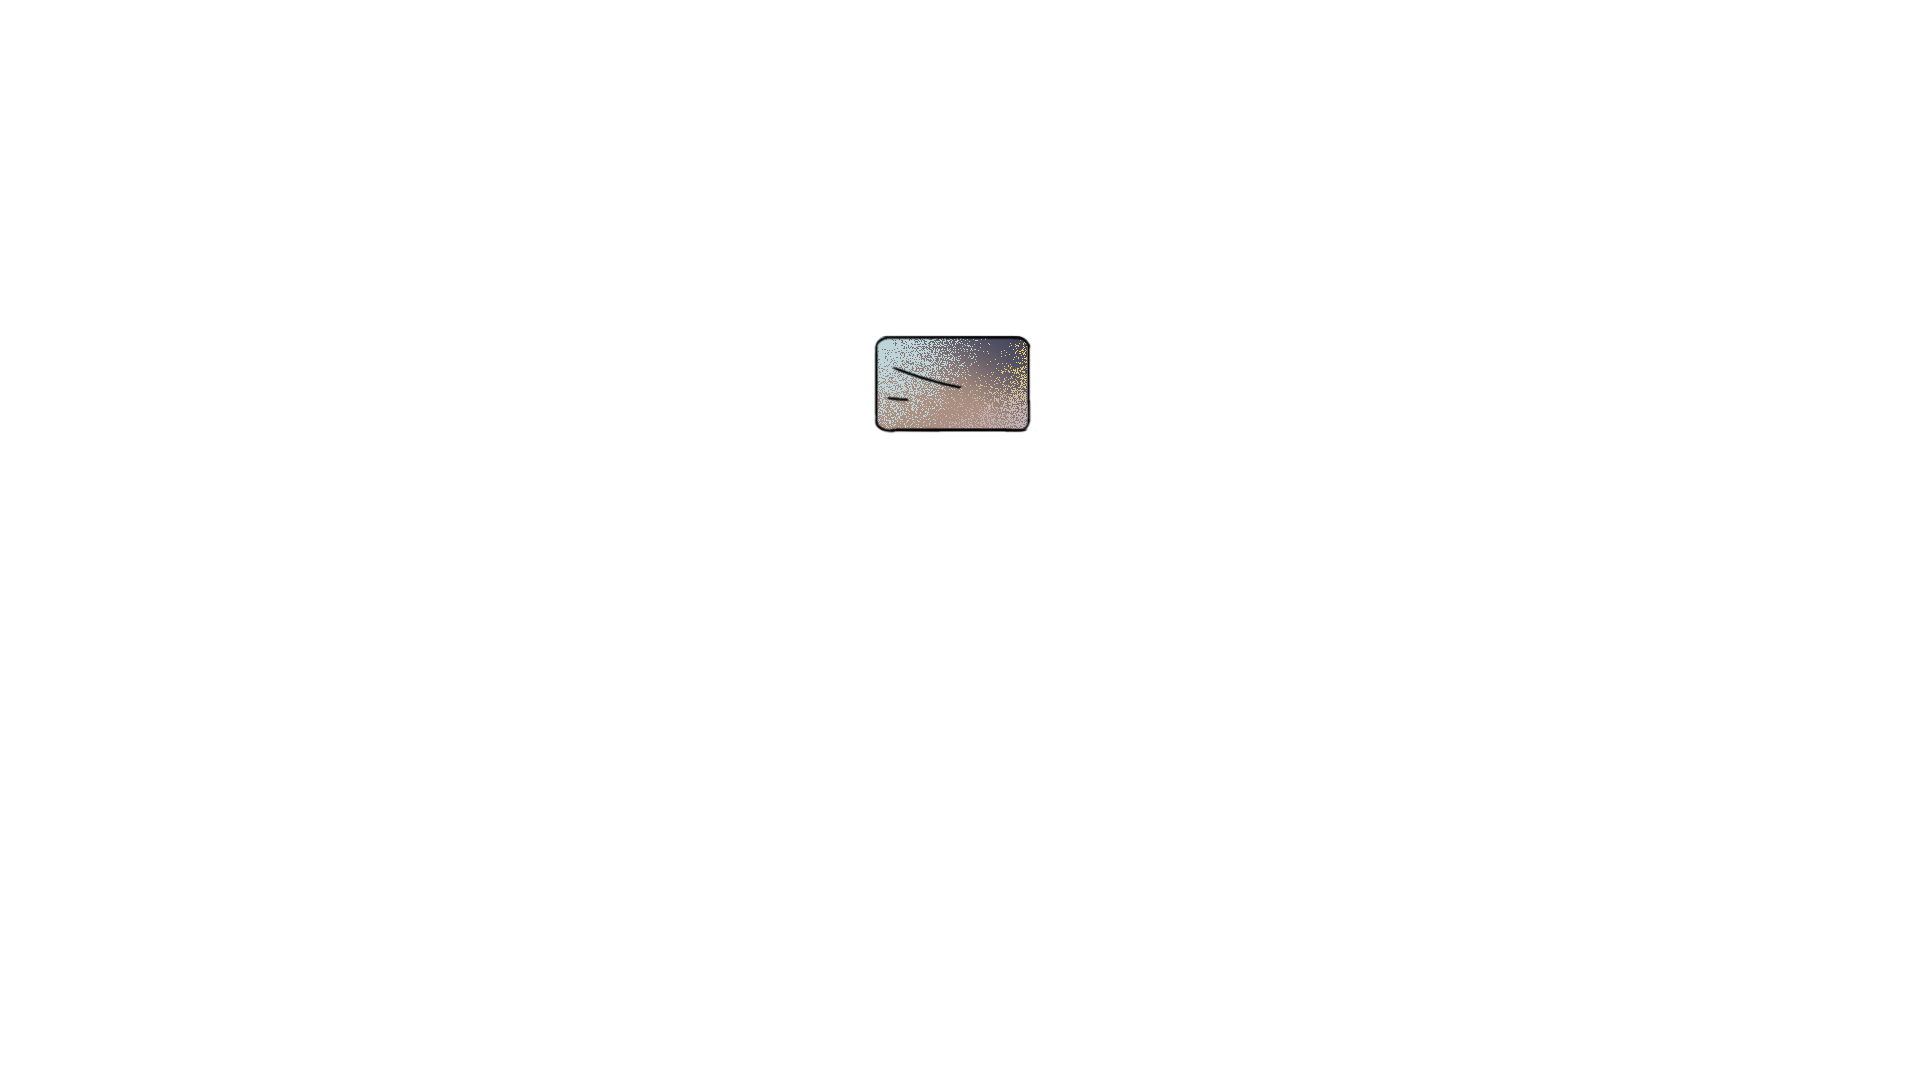
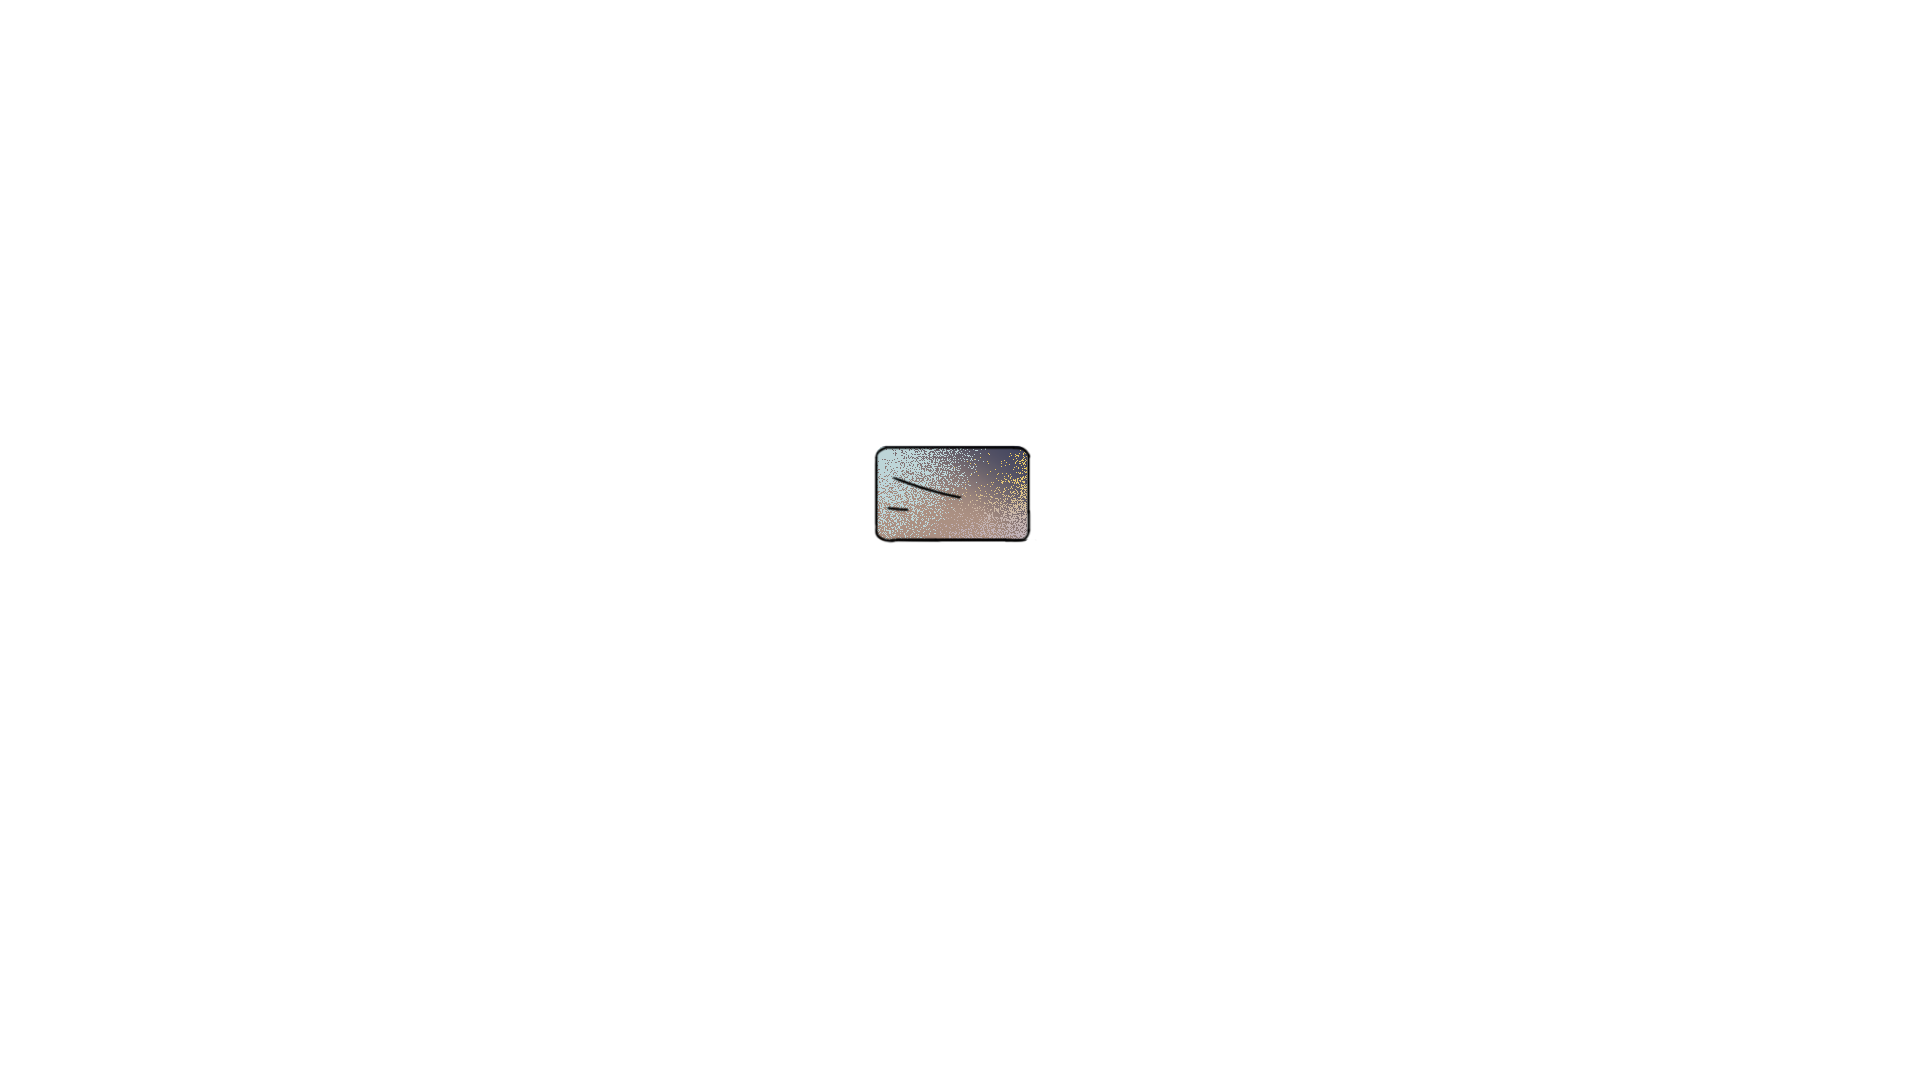
换loading

Changed region(s): [[0.4375, 0.3056, 0.5625, 0.5194]]

diff --git a/Lagou/src/2019-car/css/m_index.scss b/Lagou/src/2019-car/css/m_index.scss
@@ -264,8 +264,9 @@ body {
     &__bg {
         width:100%;
         height:100%;
-        background:url('../images/loading-bg.png') no-repeat center top;
-        background-size:100% 100%;
+        background-color:#4cb9b5;
+        // background:url('../images/loading-bg.png') no-repeat center top;
+        // background-size:100% 100%;
         position:absolute;
         left:0;
         top:0;
@@ -278,7 +279,8 @@ body {
         // @include center(336+82.5,111);
         position: absolute;
         left:50%;
-        top:rem(111);
+        // top:rem(111);
+        top:rem(221);
         margin-left:rem(-1260/2);
         // transform:translate(-50%,0);
     }
@@ -300,8 +302,9 @@ body {
         background-size:rem(512) rem(254);
         // @include center(899+82.5,329);
         position: absolute;
-        left:50%;
-        top:rem(329);
+        left:50%;  // 899
+        top:rem(439);
+        // top:rem(329);
         margin-left:rem(-160/2);
     }
     &__text {
@@ -312,7 +315,8 @@ body {
         // @include center(872+82.5,598);
         position: absolute;
         left:50%;
-        top:rem(598);
+        // top:rem(598);
+        top:rem(704);
         margin-left:rem(-145/2);
     }
     &__dotParent {
@@ -321,7 +325,8 @@ body {
         // @include center(872+145+82.5,598+19);
         position: absolute;
         left:50%;
-        top:rem(598+19);
+        // top:rem(598+19);
+        top:rem(704+19);
         margin-left:rem(145/2);
     }
     &__dot {
@@ -346,12 +351,25 @@ body {
     &__more {
         width:rem(385);
         height:rem(31);
-        background:url('../images/loading-more.png') no-repeat 0 0;
+        background:url('../images/loading-text-01.png') no-repeat 0 0;
         background-size:100% 100%;
         // @include center(872+82.5,598);
+        left:50%;
+        // top:rem(989);
+        bottom:rem(59);
         position: absolute;
-        right:rem(62);
-        bottom:rem(43);
+        margin-left:rem(385/2);
+        // right:rem(62);
+        // bottom:rem(43);
+    }
+    &__move {
+        width:rem(132);
+        height:rem(31);
+        background:url('../images/loading-move.png') no-repeat 0 0;
+        background-size:100% 100%;
+        position: absolute;
+        right:rem(80);
+        bottom:rem(59);
     }
     &__inputParent {
         // width:rem(474);

diff --git a/Lagou/src/2019-car/css/m_index.css b/Lagou/src/2019-car/css/m_index.css
@@ -145,8 +145,7 @@ body {
   .loading__bg {
     width: 100%;
     height: 100%;
-    background: url("../images/loading-bg.png") no-repeat center top;
-    background-size: 100% 100%;
+    background-color: #4cb9b5;
     position: absolute;
     left: 0;
     top: 0; }
@@ -157,7 +156,7 @@ body {
     background-size: 100% 100%;
     position: absolute;
     left: 50%;
-    top: 1.64444rem;
+    top: 3.27407rem;
     margin-left: -9.33333rem; }
   .loading__pillow {
     width: 28.44444rem;
@@ -175,7 +174,7 @@ body {
     background-size: 7.58519rem 3.76296rem;
     position: absolute;
     left: 50%;
-    top: 4.87407rem;
+    top: 6.5037rem;
     margin-left: -1.18519rem; }
   .loading__text {
     width: 2.14815rem;
@@ -184,14 +183,14 @@ body {
     background-size: 2.60741rem 0.45926rem;
     position: absolute;
     left: 50%;
-    top: 8.85926rem;
+    top: 10.42963rem;
     margin-left: -1.07407rem; }
   .loading__dotParent {
     width: 0.45926rem;
     height: 0.17778rem;
     position: absolute;
     left: 50%;
-    top: 9.14074rem;
+    top: 10.71111rem;
     margin-left: 1.07407rem; }
   .loading__dot {
     width: 0.14815rem;
@@ -209,11 +208,20 @@ body {
   .loading__more {
     width: 5.7037rem;
     height: 0.45926rem;
-    background: url("../images/loading-more.png") no-repeat 0 0;
+    background: url("../images/loading-text-01.png") no-repeat 0 0;
+    background-size: 100% 100%;
+    left: 50%;
+    bottom: 0.87407rem;
+    position: absolute;
+    margin-left: 2.85185rem; }
+  .loading__move {
+    width: 1.95556rem;
+    height: 0.45926rem;
+    background: url("../images/loading-move.png") no-repeat 0 0;
     background-size: 100% 100%;
     position: absolute;
-    right: 0.91852rem;
-    bottom: 0.63704rem; }
+    right: 1.18519rem;
+    bottom: 0.87407rem; }
   .loading__inputParent {
     width: 11.85185rem;
     height: 8.88889rem;

diff --git a/Lagou/src/2019-car/m_index.html b/Lagou/src/2019-car/m_index.html
@@ -168,13 +168,13 @@
                 // number.innerHTML = "100%";
                 alreadyLoaded = true;
                 console.log("loadingSuccess: "+space);
-                if(space < 3000){
-                    setTimeout(function(){
-                        loadingComplete();
-                    },3000 - space)
-                }else{
-                    loadingComplete();
-                }
+                // if(space < 3000){
+                //     setTimeout(function(){
+                //         loadingComplete();
+                //     },3000 - space)
+                // }else{
+                //     loadingComplete();
+                // }
                 // var inputParent = document.getElementsByClassName('loading__inputParent')[0];
                 // inputParent.className = inputParent.className.replace(/( hide)/g,'');
             };
@@ -223,6 +223,7 @@
                         <div class="loading__dot loading__dot--03 dotMove delay0-4"></div>
                     </div>
                     <div class="loading__more"></div>
+                    <div class="loading__move littleMoveInfinite"></div>
                     <!-- <div class="loading__num opacityChange delay0-5 clearfix" id="loading__num">0%</div> -->
                 </div>
             </div>

diff --git a/Lagou/src/2019-car/js/loading.js b/Lagou/src/2019-car/js/loading.js
@@ -78,7 +78,7 @@ function loadAudio(){
 var loadingHost = '';
 // var loadingHost = 'https://www.lgstatic.com/activity-rsrc/dist/2018-night/';
 var imgArray = [
-	loadingHost+"images/loading-bg.png",
+	// loadingHost+"images/loading-bg.png",
 	loadingHost+"images/loading-title.png",
 	loadingHost+"images/loading-btn-01.png",
 	loadingHost+"images/loading-more.png",
